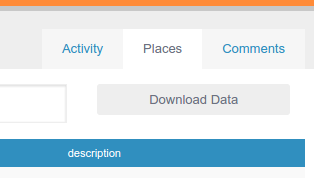
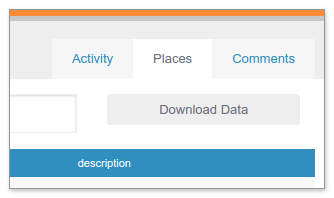
Update the DATA_EXPORT docs to be prettier
- Markdown should minimize the use of integrated HTML. I feel like the point of
  Markdown is to be readable whether it's rendered or plain text.
- Add the border and shadow to the thumbnail images instead of HTML/CSS

diff --git a/docs/DATA_EXPORT.md b/docs/DATA_EXPORT.md
@@ -3,8 +3,8 @@ Downloading your Map Data
 
 From the data dashboard, click on the *Places* tab. From there, click *Download Data*. This will take you to the plan page editor screen.
 
-<div style="text-align: center; border: 1px solid silver; box-shadow: 0px 1px 2px 2px rgba(0,0,0,0.25);"><img src="download-data-screenshot01.png" style="max-width: 100%;"></div>
+![Places tab & download button](download-data-screenshot01.png)
 
 From the plan page editor, scroll down to the map section. At the bottom of this section should be a link that says *Download Map Data...* Clicking this link will request that the server generate a "snapshot" of your data. Once your snapshot has been generated (this may take up to a few minutes), you can click the resulting button to download your snapshot in CSV format.
 
-<div style="text-align: center; border: 1px solid silver; box-shadow: 0px 1px 2px 2px rgba(0,0,0,0.25);"><img src="download-data-screenshot03.png" style="max-width: 100%;"></div>
+![Data download button](download-data-screenshot03.png)
